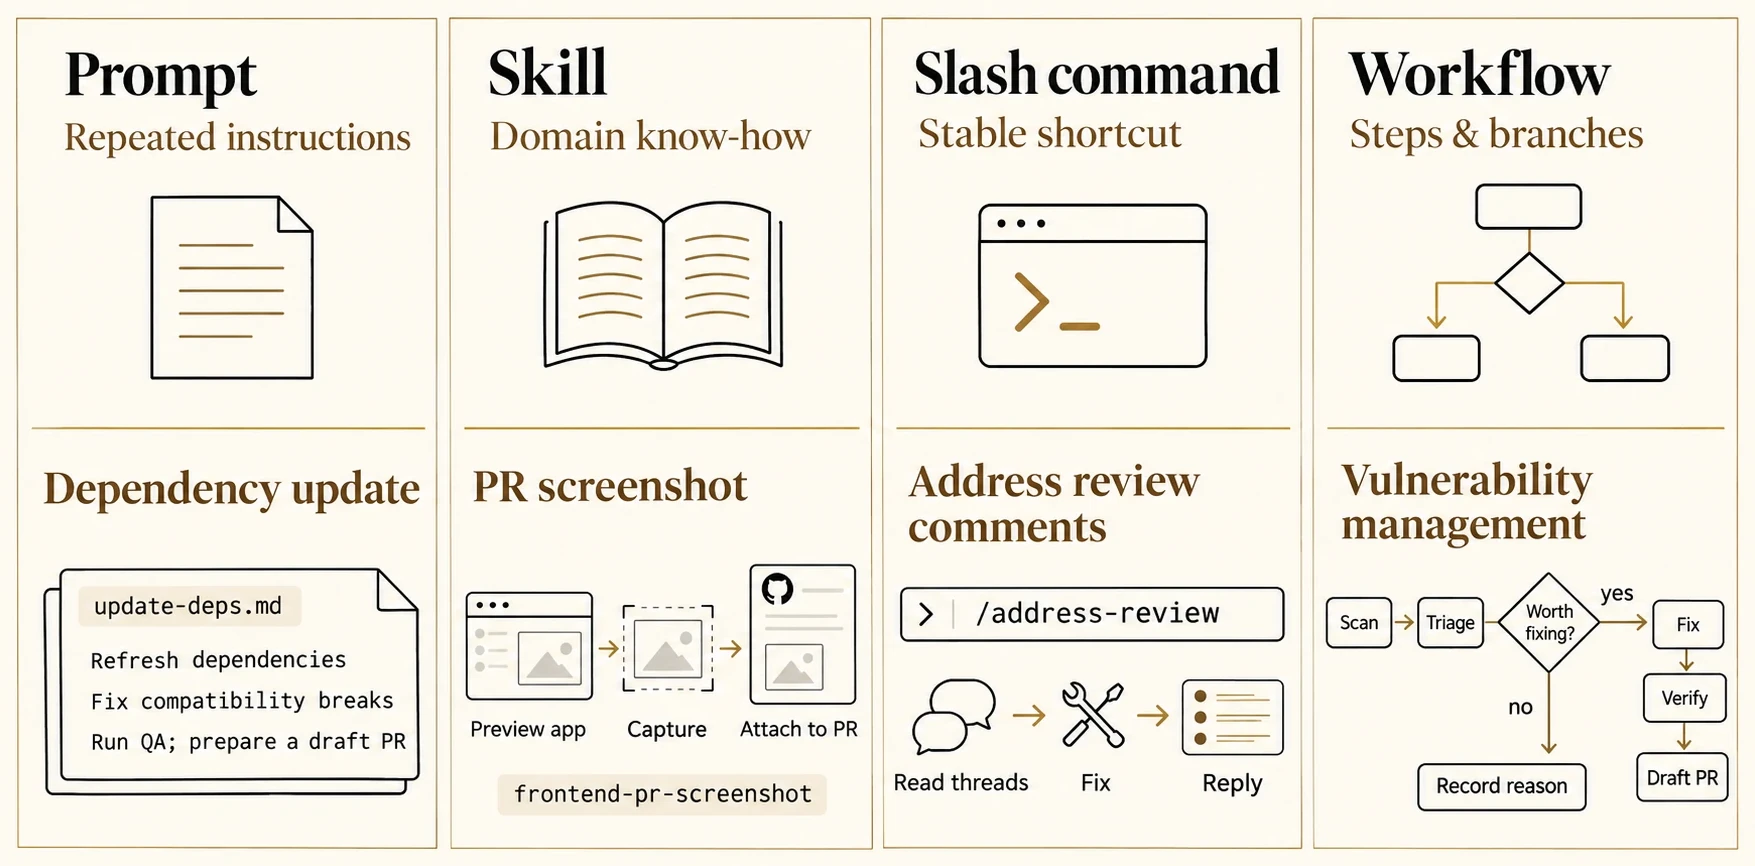
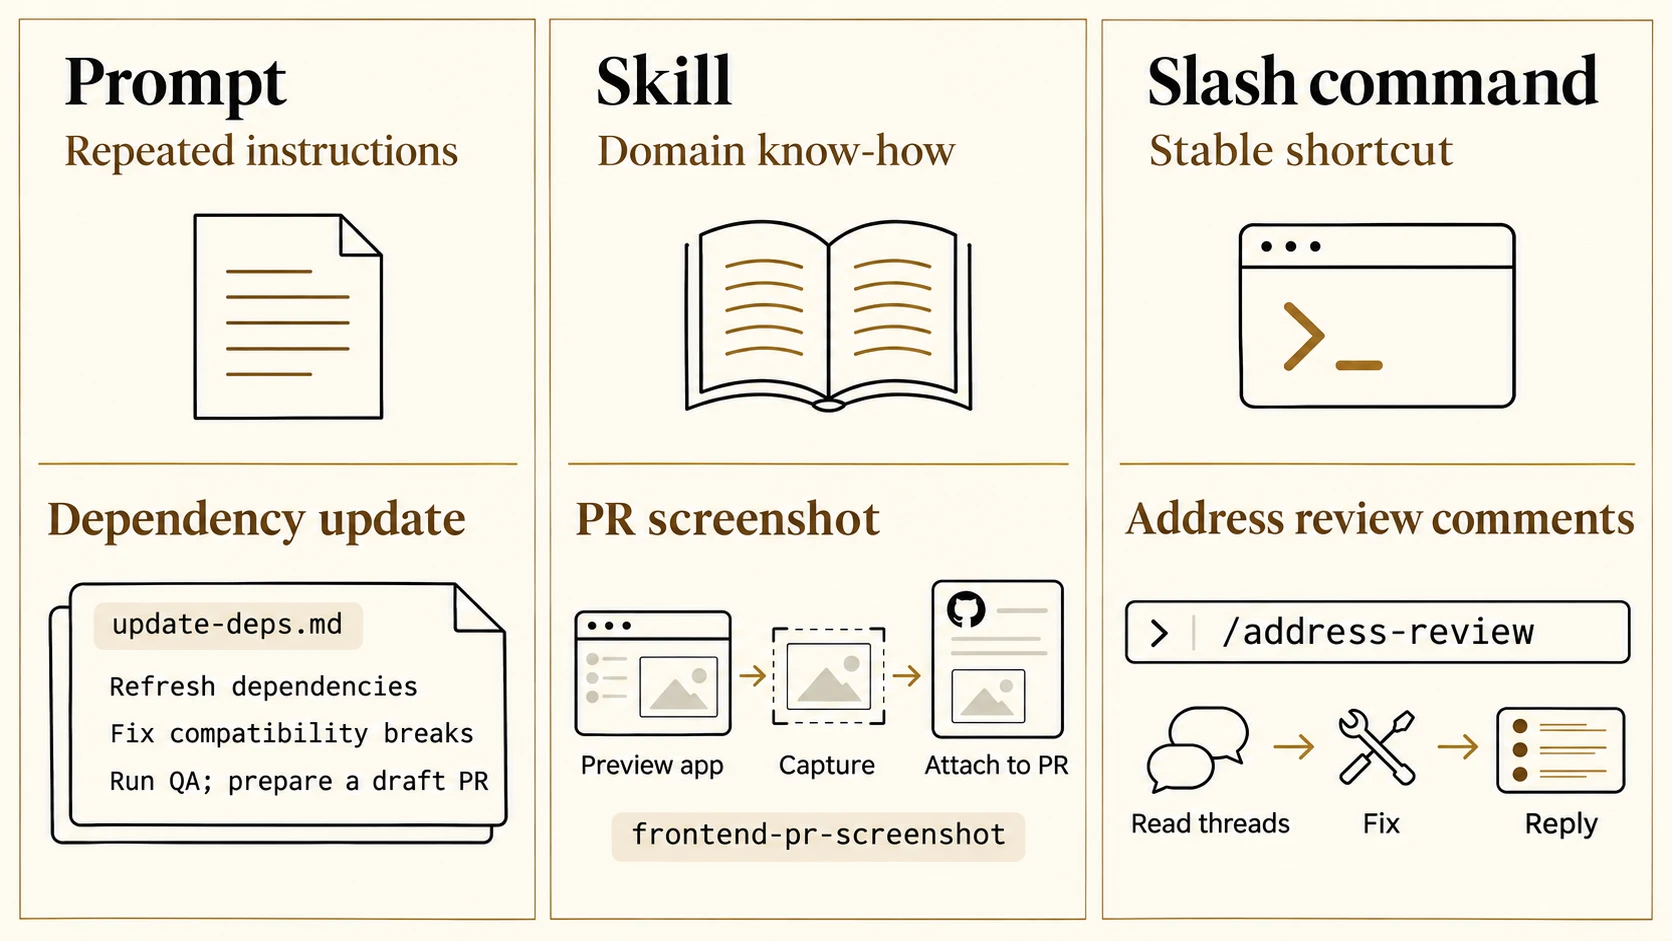
docs(automation): focus examples on three mechanisms (#65)
## Summary

- Remove the Workflow mechanism and vulnerability-management example
from the illustration.
- Keep Prompt, Skill, and Slash command with their existing examples.
- Update the slide narration, illustration prompt, and discoverability
summaries.

## Validation

- `just render`
- `git diff --check`

diff --git a/media/README.md b/media/README.md
@@ -298,25 +298,23 @@ noise and better recall.
 
 ## meta-automation-combined.webp
 
-The illustration pairs four reusable mechanisms with aligned examples: a
-repeated-instructions prompt for dependency updates, a PR screenshot skill, a
-review-comment slash command, and a vulnerability management workflow.
+The illustration pairs three reusable mechanisms with aligned examples: a
+repeated-instructions prompt for dependency updates, a PR screenshot skill,
+and a review-comment slash command.
 
 ```text
 Use case: infographic-diagram. Create one wide landscape presentation illustration, close to 2:1, in the deck's refined editorial pen-and-ink style. Use a bright ivory #fdfaf3 canvas, very pale warm-stone #e9e5db fills, near-black #141414 text and linework, restrained gold #dac284 borders and arrows, and occasional readable dark-brown #7d6020 emphasis. Use square corners, sparse shading, serif headings, and clear sans-serif labels. Match agent-autonomy.webp for palette brightness.
 
-Create exactly four equal, aligned vertical columns, left to right: Prompt, Skill, Slash command, Workflow. Each column has a mechanism area above and its practical example below, divided by a thin gold horizontal rule. Do not include the former top or bottom process rows, an overall title, or a footer.
+Create exactly three equal, aligned vertical columns, left to right: Prompt, Skill, Slash command. Each column has a mechanism area above and its practical example below, divided by a thin gold horizontal rule. Do not add further mechanisms, an overall title, or a footer.
 
-Upper mechanism areas: “Prompt” / “Repeated instructions”; “Skill” / “Domain know-how”; “Slash command” / “Stable shortcut”; “Workflow” / “Steps & branches”. Use simple line drawings of a document, book, terminal, and branching process.
+Upper mechanism areas: “Prompt” / “Repeated instructions”; “Skill” / “Domain know-how”; “Slash command” / “Stable shortcut”. Use simple line drawings of a document, book, and terminal.
 
 Lower examples, aligned under their matching mechanism:
 
 1. Prompt — title “Dependency update”. Show an instruction document labelled “update-deps.md” with the readable lines “Refresh dependencies”, “Fix compatibility breaks”, and “Run QA; prepare a draft PR”.
 2. Skill — title “PR screenshot”. Show a preview browser, a captured image, and its attachment to a pull request. Label the steps “Preview app”, “Capture”, and “Attach to PR”; include “frontend-pr-screenshot”.
 3. Slash command — title “Address review comments”. Show the prominent terminal command “/address-review” and the sequence “Read threads → Fix → Reply”.
-4. Workflow — title “Vulnerability management”. Show “Scan” → “Triage” → “Worth fixing?”; the yes branch continues “Fix” → “Verify” → “Draft PR”, and the no branch goes to “Record reason”. Keep the branches distinct.
-
-Keep all wording exact, legible at slide size, and contained within its column. No extra text, invented claims, tiny copy, overlap, rounded cards, gradients, bright colours, logos, or watermark.
+Keep all wording exact, legible at slide size, and contained within its column. No extra mechanisms, examples, text, invented claims, tiny copy, overlap, rounded cards, gradients, bright colours, logos, or watermark.
 ```
 
 ## model-change-maintenance.webp
